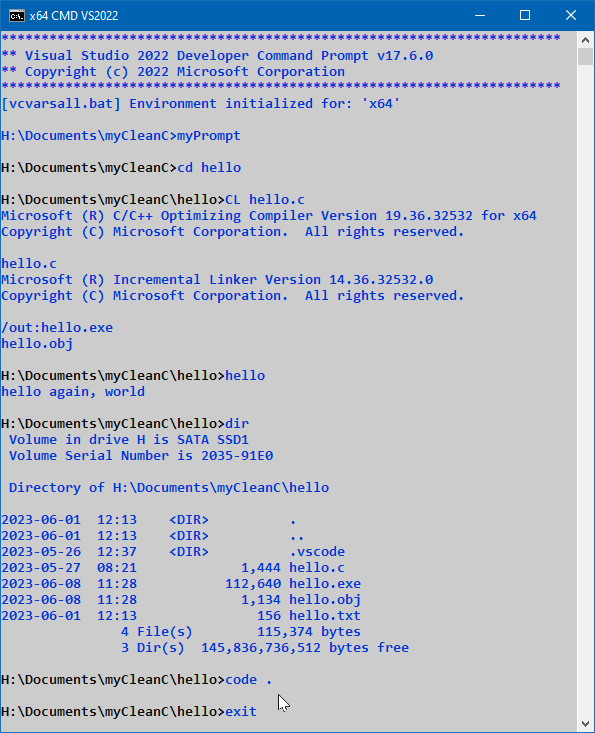
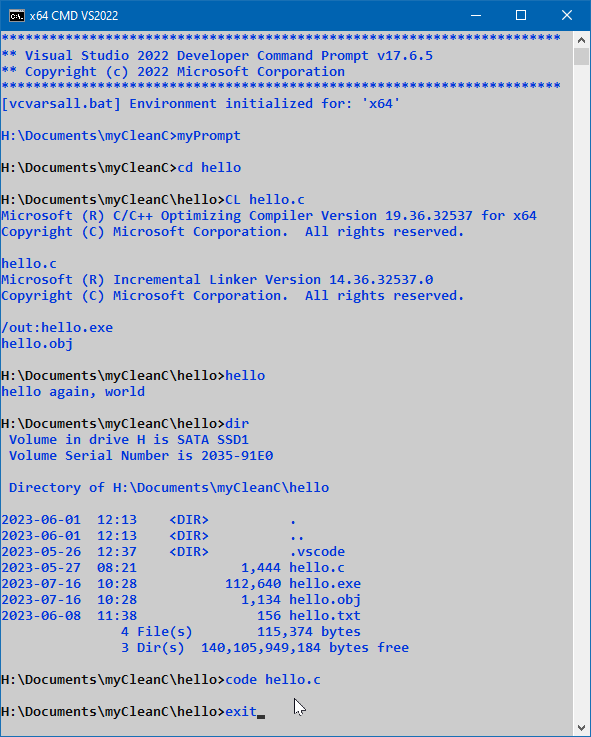
0.0.20 T060101.txt Much tidying up
Partway to next expanded draft

Changed region(s): [[0.0, 0.5703, 0.7005, 0.9905], [0.0, 0.1801, 0.9137, 0.5402], [0.0, 0.0, 0.9442, 0.1501]]

diff --git a/docs/tools/T060101/c/index.md b/docs/tools/T060101/c/index.md
@@ -1,4 +1,4 @@
-<!-- index.md 0.1.1                 UTF-8                          2023-06-08
+<!-- index.md 0.1.2                 UTF-8                          2023-07-17
      ----1----|----2----|----3----|----4----|----5----|----6----|----7----|--*
 
                          T060101c: GETTING TO "HELLO"
@@ -6,7 +6,7 @@
 
 # T060101c: [Getting to "Hello"](.)
 
-| ***[nfoTools](../../../)*** | [tools](../../)[>t060101](../)[>c](.) | ***[index.html](index.html) 0.1.1 2023-06-08*** |
+| ***[nfoTools](../../../)*** | [tools](../../)[>t060101](../)[>c](.) | ***[index.html](index.html) 0.1.2 2023-07-17*** |
 | :--                |       :-:          | --: |
 | ![nfotools](../../../images/nfoWorks-2014-06-02-1702-LogoSmall.png) | [Work in Progress](T060101c.txt) | ![Hard Hat Area](../../../images/hardhat-logo.gif) |
 
@@ -47,13 +47,10 @@ installed.  On a Windows PC, the Documents folder of a personal account will
 
  ![Initial myCleanC Folder](T060101c1.png)
 
- The example `Documents\myCleanC` folder is established using a Windows 10
- File Explorer view that is handy when working on software projects. This name
- reflects the emphasis on [Clean C](../#keeping-it-clean-c) here.
-
  The file
- `hello.c` has already been created in the folder.  This is a text file with
- extension  `.c` instead of `.txt`.
+ `hello.c` has already been created in the folder `Documents\myCleanC`.  The
+ file has extension `.c` instead of `.txt`, signifying that the text is in
+ C language by convention.
 
 ## 3. Make the `hello.c` Code
 
@@ -61,7 +58,7 @@ installed.  On a Windows PC, the Documents folder of a personal account will
 
 This is the very first program presented in the
 \[[Kernighan1988](..\b\#Kernighan1988)\] book, *The C Programming Language*.
-This program should be typed exactly and saved as file `hello.c`.  Be exact,
+Your program should be typed exactly and saved as file `hello.c`.  Be exact,
 character-by-character, line-by-line.
 
 There is
@@ -98,8 +95,8 @@ runs scripts that announce the tools and initialize the command-session
 environment for building x64 programs.
 
 - The title in the console window reflects the established setup.  The tiny
-`C:\_` icon identifies the built-in utility `CMD.exe` that provides
-Command Prompt operation.
+`C:\_` icon identifies the [built-in utility](..\..\T060501) `CMD.exe` that
+provides Command Prompt operation.
 - The version of Visual Studio whose Build Tools are being employed is
 identified.
 - The flavor of environment is reported and the first user
@@ -125,6 +122,8 @@ The command `CL hello.c` instructs the VC/C++ Compiler-Linker (CL) to compile
 `hello.c`.  In this simple case, compilation of the one file and producing
 executable program `hello.exe` will be automatic.
 
+The first step
+
 ### 5.4 Observe the compilation
 
 If your `hello.c` is **exactly** the version shown in
@@ -134,15 +133,18 @@ compiled and there should be nothing more before the Incremental Linker is
 identified.
 
 If there is anything else instead, there will be some diagnostic messages
-identifying the difficulties.  Any difficulties must be resolved and the
-process begun anew, step by step from [4](#4-initiate-a-command-prompt),
-above.
+identifying the difficulties and the compilation will end.  Any difficulties
+must be resolved and the process begun anew, step by step from
+[4](#4-initiate-a-command-prompt), above.
+
+When compilation of `hello.c` is successful in this initial stage, the file
+`hello.obj` is produced silently.  That intermediate result is then used by
+the incremental linker.
 
 ![hello.exe linking](T060101c4d.png)
 
 After the linker identification, there will be automatic determination to
-produce `hello.exe` from the file `hello.obj` that was produced by the
-successful compile of `hello.c`.
+produce `hello.exe` from the file `hello.obj`.
 
 If there were diagnostic messages about linking problems, they would
 appear before the next prompt.  That's unlikely here.  It can be expected
@@ -166,11 +168,12 @@ Prompt screen as a line of text.
 ![the myCleanC dir](T060101c4f.png)
 
 Finally, command line `H:\Documents\myCleanC>dir` issues the command for
-listing the current content of the Current Directory.
+listing the content of the Current Directory.
 
-The file `hello.obj` was produced by the compiler processing of `hello.c`.
-That `hello.obj` intermediate is taken by the linker and combined with needed
-library and setup code to produce `hello.exe`.  The `hello.exe` program is the complete native software for carrying out the operation specifed in the
+The file intermediate file `hello.obj` is present.  That `hello.obj`
+intermediate was taken by the linker and combined with needed
+library and setup code to produce `hello.exe`.  The `hello.exe` program is
+the complete native software for carrying out the operation specifed in the
 C Language of `hello.c`.
 
 The simple 67-character `hello.c` is compiled to a 2,367 byte `hello.obj` of
@@ -214,14 +217,13 @@ customizing the shortcut.  There are many choices available, impacting the
 overall color scheme of the display..
 
 To accentuate the appearance of command prompts in the display, `myPrompt`
-is the first command used in the fresh session.  This is used to customize
-the prompt text in a distinguishing black color.  Although not done here,
-It is also possible to alter the prompt text itself, choosing something
-different than `H:\Documents\myCleanC>` to confirm the Current Directory
-setting.
+is the first command used in the fresh session.  I'm using it to customize
+the prompt text in a different color.
 
-With the changes in startup, it is now a short hop to the `hello` project in
-its new directory.  Compilation is then carried out there.
+With the changes in setup and use of the shortcut, it is now a short hop to
+the `hello` project in its folder folder beneath `myCleanC\.`  Compilation is
+now done there.
+
 
 After compilation and confirmation of the revised `hello.c` program, the `dir`
 command listing of file sizes reflects changes in the `hello.c` program that
@@ -245,13 +247,12 @@ as demonstrated further next.
 
 ![starting VS Code](T060101c5a.png)
 
-The command entry `code .` initiates [Visual Studio Code](../../T21001/) for
-operation in the Command Prompt environment and oriented to the Current
-Directory (established by the `.` parameter).
+The command entry `code hello.c` initiates [Visual Studio Code](../../T21001/)
+for operation under the Command Prompt environment.  `hello.c` is named as a
+parameter to code, having it be opened directly in the VS Code editor.
 
-The benefit of initiating VS Code in this manner is for its
-recognition of the initialized environment, using it for review and
-annotation of files that are opened for review and possible editing.
+When VS Code is initiated under the developer Command Prompt, there is
+automatic recognition of the initialized environment.
 
 ![hello.c 0.2.2 in VS Code](T060101c6.png)
 
@@ -269,11 +270,12 @@ first line,
  int main(void)
  ```
 
-Visual Studio Code will recognize various defects in a C Language program.
-For this `hello.c` none are identified.
+When operated under the developer Command Prompt environment, Visual Studio
+Code will recognize various defects in a C Language program.  For this
+`hello.c` none are identified.
 
-What will become more important is coming to appreciate what is **not**
-provoking any VS Code commentary.
+It will become important to appreciate what is **not** provoking any VS Code
+commentary and warnings.
 
 - The `#include <stdio.h>` has been resolved to a file in the VC/C++
 environment.
@@ -282,7 +284,7 @@ required `main()` procedure.
 - the `fputs()` matches with the definition in `stdio.h` and the two
 parameters are of the proper form.
 - `stdout`, also established in `stdio.h` is recognized as the indicator
-of the standard output stream, her to be automatically directed to the Command
+of the standard output stream, here to be automatically directed to the Command
 Prompt window the program is operated from.
 
 All of this built-in checking, called
@@ -304,13 +306,13 @@ successful case is the identification of the C/C++ compiler.
 
 If there are any error messages, they will still appear.  The quiet operation
 indicates that there are no difficulties.  In the case of error messages and
-warnings, it is necessary to repeat the compilation without the `>NUL` to
+warnings, it may be necessary to repeat the compilation without the `>NUL` to
 observe further details.
 
 An alternative to sending the output to the `NUL` bit-bucket is to direct the
 output to a file.  The command `CL hello.c >hello.txt` accomplishes that.
-This way, if there are errors and warnings, the full output can be seen by
-viewing that file, accomplished with command `type hello.txt` in the example.
+Now if there are errors and warnings, the full output can be seen by
+viewing that file, accomplished with command `type hello.txt` in this example.
 
 ## 7. Fledgling Adventures
 
@@ -339,6 +341,7 @@ from time to time.
 
 <!-- ----1----|----2----|----3----|----4----|----5----|----6----|----7----|--*
 
+     0.1.2 2023-07-17T00:32Z Many touch ups for clean draft
      0.1.1 2023-06-08T19:58Z Improved descriptions and myPrompt usage
      0.1.0 2023-06-01T19:59Z Cleanup as 0.1.0 full beta level
      0.0.9 2023-06-01T17:13Z Touch-ups, suggestions by Bill Anderson

diff --git a/docs/tools/T060101/b/index.md b/docs/tools/T060101/b/index.md
@@ -1,4 +1,4 @@
-<!-- T060101b.md 0.2.8              UTF-8                          2023-06-23
+<!-- T060101b.md 0.2.9              UTF-8                          2023-07-16
      ----1----|----2----|----3----|----4----|----5----|----6----|----7----|--*
 
                         T060101: C/C++ PROGRAMMING
@@ -8,7 +8,7 @@
 
 # T060101b: [C/C++ Programming Resources](.)
 
-| ***[nfoTools](../../../)*** | [tools](../../)[>T060101](../)[>b](.) | ***[index.html](index.html) 0.2.8 2023-06-23*** |
+| ***[nfoTools](../../../)*** | [tools](../../)[>T060101](../)[>b](.) | ***[index.html](index.html) 0.2.9 2023-07-16*** |
 | :--                |       :-:          | --: |
 | ![nfotools](../../../images/nfoWorks-2014-06-02-1702-LogoSmall.png) | [Work-in-Progress](T060101b.txt) | ![Hard Hat Area](../../../images/hardhat-logo.gif) |
 
@@ -50,12 +50,13 @@ and [Skills](../../../skills) for additional coverage.
 The amount of printed material focused specifically on C Language has
 diminished along with the popularity of C++ and more-recent
 programming-language developments.  Some materials featuring C++ start with
-what counts as Clean C, but appealing to the popular interest in C++.
+what counts as Clean C, but appealing to the popular interest in C++ in the
+choice of title and nomenclature.
 
 Printed books can still be found in libraries and also on sale as used books.
 The use of electronic versions other than PDF forms are not recommended.  The
 formulas and code examples have been reported to be transformed incorrectly
-in electronic editions.
+in non-PDF electronic editions.
 
 ### \[<a name="Harbison2002">Harbison2002</a>\] C, A Reference Manual
 
@@ -70,8 +71,8 @@ introduces and emphasizes Clean C for the quality it encourages and also for
 its consistency with C++.  The International Standard for C Language has
 continued to be updated, and compilers might also support the 2011 (C11) and
 2017 (C17) updates even as developers cling to C99 as the gold standard.  It
-is unfortunate that no supplement has been undertaken to address C11 and
-beyond.
+is unfortunate that no supplement of this book has been undertaken to address
+C11 and beyond.
 
 ### \[<a name=Kernighan1988>Kernighan1988</a>\] The C Programming Language
 
@@ -178,10 +179,10 @@ Jaeschke, Rex.  *Portability and the C Language*, ed.2. Wikibooks edition
 much about how to achieve it in a given setting under particular conditions.
 As such, this is not a reference on C Language, although there is much that
 can be learned with respect to portability and where the C Language standards
-have something to say that requires understanding/consideration.  There are
-some nasty pitfalls, such as accidental use of sequences that happen to be
-recognized as trigraphs by some compilers.  There are many more identified
-here.
+have something to say that requires understanding/consideration.  There is
+identification of some nasty pitfalls, such as accidental use of sequences
+that happen to be recognized as trigraphs by some compilers.  There are many
+more identified here.
 
 ### \[<a name="LibC2023">LibC2023</a>\] C Standard Library
 
@@ -227,7 +228,7 @@ Microsoft Corporation. Walkthrough: Compile a C Program on the Command Line.
 Microsoft Learn Documentation available on the Internet at
 <https://learn.microsoft.com/en-us/cpp/build/walkthrough-compile-a-c-program-on-the-command-line>,
 accessed on 2023-06-01.  This is anothere take on
-[Getting to Hello](../c) with a bit more Visual Studio lore in contrast.
+[Getting to Hello](../c) with a bit more Visual Studio lore for contrast.
 
 ### \[<a name="Microsoft2022b">Microsoft2022b</a>\] C Language Documentation
 
@@ -349,19 +350,19 @@ use of registers and pointers nowadays; MMIX reflects that.  At the same time,
 MMIX *feels* much more complicated.  For an initial understanding of
 machine-language (i.e., assembler language) programming and the underlying
 data and code structures, sections 1.3-1.4 of \[[Knuth1997](#Knuth1997)\] may
-be simpler as a starter where available.  Tackle MMIX a bit later later.
+be simpler as a starter where available.  Tackle MMIX a bit later.
 
 ### \[<a name="Petzold2000">Petzold2000</a>\] Code
 
 Petzold, Charles. *Code: The Hidden Language of Computer Hardware and
 Software*.  Microsoft Press (Redmond, WA: 2000).  ISBN 0-7356-1131-9 pbk.
 This book starts with a leisurely and understandable progression from the
-wasy code is known apart from computing through the ways that we got to the
-computer chips that are increasingly powerful.  This book is not about
+way code is known apart from computing through the ways that we got to
+today's increasingly powerful computer chips.  This book is not about
 programming.  It does get to the underpinnings from which programmable
 computers and programs for them arise.  It is often eye-opening to explore.
 
----
+----
 
 Discussion about nfoTools is welcome at the
 [Discussion section](https://github.com/orcmid/nfoTools/discussions).
@@ -373,6 +374,7 @@ from time to time.
 
 <!-- ----1----|----2----|----3----|----4----|----5----|----6----|----7----|--*
 
+     0.2.9 2023-07-16T17:20Z Touch-ups from proof-reading - improved draft
      0.2.8 2023-06-23T15:57Z More Wikipedia/Wikibooks references
      0.2.7 2023-06-20T20:03Z Add [Petzold2000]
      0.2.6 2023-06-18T17:48Z More for Touch-ups, Section 4
